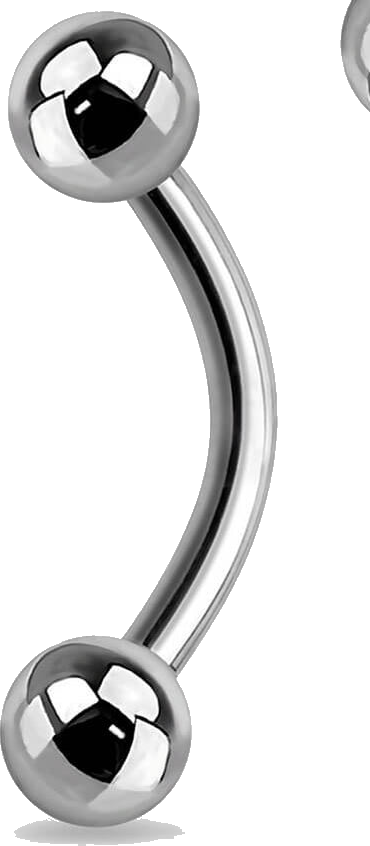
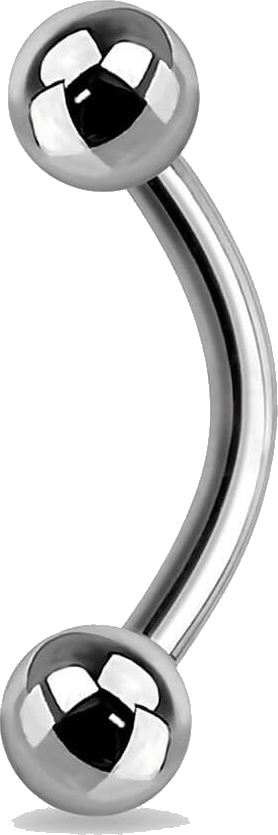
tune OUFER placement and sizing

diff --git a/src/FaceTracker.jsx b/src/FaceTracker.jsx
@@ -43,10 +43,10 @@ const jewelryAsset = (file) => `${import.meta.env.BASE_URL}jewelry/${file}`;
 // sprite about this same point, swapping which way the curve falls.
 const NOSTRIL_HOOP_ANCHOR = [0.78, 0.12];
 
-// Sizes below are the pre-adjustment baseline scaled up by ~35% from the
-// original calibration, which rendered too small to see on the feed. The
-// multiplier is uniform across every entry, so the pieces keep their sizes
-// relative to one another; the resize grip still moves any of them from here.
+// Sizes below are the pre-adjustment baseline, re-calibrated against the live
+// feed after the previous uniform scale-up left every piece oversized. They are
+// no longer a uniform multiple of one another — each piece is sized to its own
+// artwork — and the resize grip still moves any of them from here.
 const OUFER_URLS = {
   septum: 'https://www.ouferbodyjewelry.com/products/tribal-fake-gauge-titanium-threadless-septum-ring?ref=tcjnbdeb',
   nose: 'https://www.ouferbodyjewelry.com/products/black-cz-push-pin-horseshoe-nose-ring?ref=tcjnbdeb',
@@ -56,22 +56,25 @@ const OUFER_URLS = {
 
 const JEWELRY = {
   leftNostril: [
-    { id: 'oufer', label: 'OUFER Nose Ring', src: jewelryAsset('oufer-nose.png'), widthRatio: 0.099, offset: [0.024, 0.055], anchor: NOSTRIL_HOOP_ANCHOR, affiliateUrl: OUFER_URLS.nose },
+    { id: 'oufer', label: 'OUFER Nose Ring', src: jewelryAsset('oufer-nose.png'), widthRatio: 0.045, offset: [0.012, 0.070], anchor: NOSTRIL_HOOP_ANCHOR, affiliateUrl: OUFER_URLS.nose },
   ],
   rightNostril: [
-    { id: 'oufer', label: 'OUFER Nose Ring', src: jewelryAsset('oufer-nose.png'), widthRatio: 0.099, offset: [-0.059, 0.066], anchor: NOSTRIL_HOOP_ANCHOR, mirror: true, affiliateUrl: OUFER_URLS.nose },
+    { id: 'oufer', label: 'OUFER Nose Ring', src: jewelryAsset('oufer-nose.png'), widthRatio: 0.045, offset: [-0.028, 0.078], anchor: NOSTRIL_HOOP_ANCHOR, mirror: true, affiliateUrl: OUFER_URLS.nose },
   ],
   septum: [
-    { id: 'oufer', label: 'OUFER Septum Ring', src: jewelryAsset('oufer-septum.png'), widthRatio: 0.123, affiliateUrl: OUFER_URLS.septum },
+    { id: 'oufer', label: 'OUFER Septum Ring', src: jewelryAsset('oufer-septum.png'), widthRatio: 0.09, affiliateUrl: OUFER_URLS.septum },
   ],
+  // The two eyebrow entries share one barbell PNG, so exactly one of them
+  // carries `mirror` — that flip is what makes the pair curve as mirror images
+  // rather than both leaning the same way.
   leftEyebrow: [
-    { id: 'oufer', label: 'OUFER Curved Barbell', src: jewelryAsset('oufer-eyebrow.png'), widthRatio: 0.159, offset: [-0.071, -0.055], affiliateUrl: OUFER_URLS.eyebrow },
+    { id: 'oufer', label: 'OUFER Curved Barbell', src: jewelryAsset('oufer-eyebrow.png'), widthRatio: 0.06, offset: [-0.030, -0.012], mirror: true, affiliateUrl: OUFER_URLS.eyebrow },
   ],
   rightEyebrow: [
-    { id: 'oufer', label: 'OUFER Curved Barbell', src: jewelryAsset('oufer-eyebrow.png'), widthRatio: 0.159, offset: [0.071, -0.055], affiliateUrl: OUFER_URLS.eyebrow },
+    { id: 'oufer', label: 'OUFER Curved Barbell', src: jewelryAsset('oufer-eyebrow.png'), widthRatio: 0.06, offset: [0.030, -0.012], affiliateUrl: OUFER_URLS.eyebrow },
   ],
   lowerLip: [
-    { id: 'oufer', label: 'OUFER Lip Stud', src: jewelryAsset('oufer-lip.png'), widthRatio: 0.061, affiliateUrl: OUFER_URLS.lip },
+    { id: 'oufer', label: 'OUFER Lip Stud', src: jewelryAsset('oufer-lip.png'), widthRatio: 0.035, affiliateUrl: OUFER_URLS.lip },
   ],
 };
 
@@ -308,13 +311,18 @@ const nearestPiece = (pieces, point) => {
 // they don't bury the jewelry; the hit radius is much larger so they stay
 // thumb-sized on a phone.
 const HANDLE_GAP = 12;
-const HANDLE_RADIUS = 8;
+// Wide enough to carry a legible glyph: the icons are what tell the two grips
+// apart now, and below about 10px the arrowheads collapse into a smudge.
+const HANDLE_RADIUS = 10;
 const HANDLE_HIT_RADIUS = 22;
 
-// Mirrors --amber / --bar in App.css; canvas can't read CSS custom properties.
-const HANDLE_AMBER = '#ffcc00';
-const HANDLE_DARK = '#101010';
-const HANDLE_RIM = 'rgba(0, 0, 0, 0.55)';
+// Mirrors --paper / --ink in index.css; canvas can't read CSS custom
+// properties. The cream disc keeps the grips on the boutique palette and stays
+// readable over any complexion in the feed, with an ink rim and a soft shadow
+// doing the separating where the frame behind them is light.
+const HANDLE_CREAM = '#f1f0ea';
+const HANDLE_INK = '#2d232e';
+const HANDLE_SHADOW = 'rgba(45, 35, 46, 0.45)';
 
 // Resize sits down-right of the piece and rotate up-right, both carried around
 // by the piece's own rotation so the gizmo reads as attached to it.
@@ -335,15 +343,67 @@ const pieceHandles = (piece, dpr) => {
   });
 };
 
+// Two short strokes off the tip, opening backwards along `heading`.
+const strokeArrowhead = (ctx, x, y, heading, size) => {
+  const spread = 2.5;
+  ctx.beginPath();
+  ctx.moveTo(x + size * Math.cos(heading + spread), y + size * Math.sin(heading + spread));
+  ctx.lineTo(x, y);
+  ctx.lineTo(x + size * Math.cos(heading - spread), y + size * Math.sin(heading - spread));
+  ctx.stroke();
+};
+
+// A three-quarter arc with one arrowhead: the smallest shape that still reads
+// as "turn this" rather than as a decorative ring.
+const drawRotateGlyph = (ctx, x, y, size) => {
+  const radius = size * 0.58;
+  const tail = Math.PI * 0.85;
+  const tip = -Math.PI * 0.25;
+
+  ctx.beginPath();
+  ctx.arc(x, y, radius, tail, tip, true);
+  ctx.stroke();
+
+  // Sweeping with the angle decreasing puts the tangent a quarter turn behind.
+  strokeArrowhead(
+    ctx,
+    x + radius * Math.cos(tip),
+    y + radius * Math.sin(tip),
+    tip - Math.PI / 2,
+    size * 0.44,
+  );
+};
+
+// Diagonal double-arrow, laid on the same down-right axis the resize grip sits
+// on, so the icon points the way the drag goes.
+const drawResizeGlyph = (ctx, x, y, size) => {
+  const reach = size * 0.66;
+  const dx = reach * Math.SQRT1_2;
+  const dy = reach * Math.SQRT1_2;
+
+  ctx.beginPath();
+  ctx.moveTo(x - dx, y - dy);
+  ctx.lineTo(x + dx, y + dy);
+  ctx.stroke();
+
+  strokeArrowhead(ctx, x + dx, y + dy, Math.PI / 4, size * 0.44);
+  strokeArrowhead(ctx, x - dx, y - dy, Math.PI / 4 - Math.PI, size * 0.44);
+};
+
 const drawHandles = (ctx, piece, handles, dpr) => {
   const orbit = piece.extent + HANDLE_GAP * dpr;
+  const radius = HANDLE_RADIUS * dpr;
 
   ctx.save();
+  ctx.lineCap = 'round';
+  ctx.lineJoin = 'round';
+  ctx.shadowColor = HANDLE_SHADOW;
+  ctx.shadowBlur = 4 * dpr;
 
   // Faint ring frames the selection and shows what the grips are attached to,
   // without competing with the jewelry it surrounds.
-  ctx.strokeStyle = HANDLE_AMBER;
-  ctx.globalAlpha = 0.35;
+  ctx.strokeStyle = HANDLE_CREAM;
+  ctx.globalAlpha = 0.45;
   ctx.lineWidth = Math.max(dpr, 1);
   ctx.beginPath();
   ctx.arc(piece.x, piece.y, orbit, 0, Math.PI * 2);
@@ -351,16 +411,27 @@ const drawHandles = (ctx, piece, handles, dpr) => {
   ctx.globalAlpha = 1;
 
   handles.forEach(({ kind, x, y }) => {
-    // Filled vs hollow is what tells the two apart at grip size — an icon would
-    // be illegible in 8px.
-    const filled = kind === 'resize';
     ctx.beginPath();
-    ctx.arc(x, y, HANDLE_RADIUS * dpr, 0, Math.PI * 2);
-    ctx.fillStyle = filled ? HANDLE_AMBER : HANDLE_DARK;
+    ctx.arc(x, y, radius, 0, Math.PI * 2);
+    ctx.fillStyle = HANDLE_CREAM;
     ctx.fill();
-    ctx.strokeStyle = filled ? HANDLE_RIM : HANDLE_AMBER;
-    ctx.lineWidth = Math.max(1.5 * dpr, 1);
+    ctx.strokeStyle = HANDLE_INK;
+    ctx.lineWidth = Math.max(1.25 * dpr, 1);
     ctx.stroke();
+
+    // The glyph is the only thing separating the two grips, so it gets drawn
+    // flat against the disc — no shadow smearing its thin strokes.
+    ctx.save();
+    ctx.shadowColor = 'transparent';
+    ctx.shadowBlur = 0;
+    ctx.strokeStyle = HANDLE_INK;
+    ctx.lineWidth = Math.max(1.4 * dpr, 1);
+    if (kind === 'rotate') {
+      drawRotateGlyph(ctx, x, y, radius);
+    } else {
+      drawResizeGlyph(ctx, x, y, radius);
+    }
+    ctx.restore();
   });
 
   ctx.restore();

diff --git a/public/_preview-handles.html b/public/_preview-handles.html
@@ -1,0 +1,108 @@
+<!doctype html><meta charset="utf-8"><title>Handle hints</title>
+<style>
+body{margin:0;background:#f1f0ea;font:14px/1.4 Manrope,system-ui;color:#2d232e;padding:24px}
+h2{font-family:Georgia,serif;font-weight:500;margin:0 0 14px}
+.row{display:flex;gap:26px;align-items:center;flex-wrap:wrap}
+figure{margin:0;text-align:center}
+figcaption{font-size:10px;letter-spacing:.14em;text-transform:uppercase;color:#413a41;margin-top:8px}
+canvas{border-radius:10px}
+</style>
+<h2>Adjust handles — icon hints</h2>
+<div class="row">
+  <figure><canvas id="a" width="440" height="260"></canvas><figcaption>Actual size, over feed</figcaption></figure>
+  <figure><canvas id="b" width="300" height="180"></canvas><figcaption>Glyphs magnified 4x</figcaption></figure>
+</div>
+<script>
+const HANDLE_RADIUS = 10;
+const HANDLE_CREAM = '#f1f0ea';
+const HANDLE_INK = '#2d232e';
+const HANDLE_SHADOW = 'rgba(45, 35, 46, 0.45)';
+// Two short strokes off the tip, opening backwards along `heading`.
+const strokeArrowhead = (ctx, x, y, heading, size) => {
+  const spread = 2.5;
+  ctx.beginPath();
+  ctx.moveTo(x + size * Math.cos(heading + spread), y + size * Math.sin(heading + spread));
+  ctx.lineTo(x, y);
+  ctx.lineTo(x + size * Math.cos(heading - spread), y + size * Math.sin(heading - spread));
+  ctx.stroke();
+};
+
+// A three-quarter arc with one arrowhead: the smallest shape that still reads
+// as "turn this" rather than as a decorative ring.
+const drawRotateGlyph = (ctx, x, y, size) => {
+  const radius = size * 0.58;
+  const tail = Math.PI * 0.85;
+  const tip = -Math.PI * 0.25;
+
+  ctx.beginPath();
+  ctx.arc(x, y, radius, tail, tip, true);
+  ctx.stroke();
+
+  // Sweeping with the angle decreasing puts the tangent a quarter turn behind.
+  strokeArrowhead(
+    ctx,
+    x + radius * Math.cos(tip),
+    y + radius * Math.sin(tip),
+    tip - Math.PI / 2,
+    size * 0.44,
+  );
+};
+
+// Diagonal double-arrow, laid on the same down-right axis the resize grip sits
+// on, so the icon points the way the drag goes.
+const drawResizeGlyph = (ctx, x, y, size) => {
+  const reach = size * 0.66;
+  const dx = reach * Math.SQRT1_2;
+  const dy = reach * Math.SQRT1_2;
+
+  ctx.beginPath();
+  ctx.moveTo(x - dx, y - dy);
+  ctx.lineTo(x + dx, y + dy);
+  ctx.stroke();
+
+  strokeArrowhead(ctx, x + dx, y + dy, Math.PI / 4, size * 0.44);
+  strokeArrowhead(ctx, x - dx, y - dy, Math.PI / 4 - Math.PI, size * 0.44);
+};
+const drawHandles = (ctx, piece, handles, dpr) => {
+  const orbit = piece.extent + 12 * dpr;
+  const radius = HANDLE_RADIUS * dpr;
+  ctx.save();
+  ctx.lineCap='round'; ctx.lineJoin='round';
+  ctx.shadowColor = HANDLE_SHADOW; ctx.shadowBlur = 4*dpr;
+  ctx.strokeStyle = HANDLE_CREAM; ctx.globalAlpha=0.45; ctx.lineWidth=Math.max(dpr,1);
+  ctx.beginPath(); ctx.arc(piece.x,piece.y,orbit,0,Math.PI*2); ctx.stroke(); ctx.globalAlpha=1;
+  handles.forEach(({kind,x,y})=>{
+    ctx.beginPath(); ctx.arc(x,y,radius,0,Math.PI*2);
+    ctx.fillStyle=HANDLE_CREAM; ctx.fill();
+    ctx.strokeStyle=HANDLE_INK; ctx.lineWidth=Math.max(1.25*dpr,1); ctx.stroke();
+    ctx.save(); ctx.shadowColor='transparent'; ctx.shadowBlur=0;
+    ctx.strokeStyle=HANDLE_INK; ctx.lineWidth=Math.max(1.4*dpr,1);
+    if(kind==='rotate') drawRotateGlyph(ctx,x,y,radius); else drawResizeGlyph(ctx,x,y,radius);
+    ctx.restore();
+  });
+  ctx.restore();
+};
+// Actual size, on a skin-ish ground standing in for the feed.
+const a = document.getElementById('a').getContext('2d');
+const g = a.createLinearGradient(0,0,440,260);
+g.addColorStop(0,'#c99a7d'); g.addColorStop(.55,'#8d6552'); g.addColorStop(1,'#3a2b28');
+a.fillStyle=g; a.fillRect(0,0,440,260);
+[[130,130,22],[310,130,40]].forEach(([x,y,extent])=>{
+  const piece={x,y,extent,rotation:0};
+  a.fillStyle='#d8d3cb'; a.beginPath(); a.arc(x,y,7,0,Math.PI*2); a.fill();
+  const orbit = extent + 12;
+  const handles=[{kind:'resize',angle:Math.PI/4},{kind:'rotate',angle:-Math.PI/4}]
+    .map(({kind,angle})=>({kind,x:x+orbit*Math.cos(angle),y:y+orbit*Math.sin(angle)}));
+  drawHandles(a,piece,handles,1);
+});
+// Magnified glyphs.
+const b = document.getElementById('b').getContext('2d');
+b.fillStyle='#e0ddcf'; b.fillRect(0,0,300,180);
+[['rotate',80],['resize',220]].forEach(([kind,cx])=>{
+  const R=40;
+  b.beginPath(); b.arc(cx,86,R,0,Math.PI*2);
+  b.fillStyle=HANDLE_CREAM; b.fill(); b.strokeStyle=HANDLE_INK; b.lineWidth=5; b.stroke();
+  b.lineCap='round'; b.lineJoin='round'; b.strokeStyle=HANDLE_INK; b.lineWidth=5.6;
+  if(kind==='rotate') drawRotateGlyph(b,cx,86,R); else drawResizeGlyph(b,cx,86,R);
+});
+</script>

diff --git a/src/App.css b/src/App.css
@@ -334,6 +334,7 @@ body {
   flex-shrink: 0;
   background: none;
   border: none;
+  border-radius: 999px;
   color: var(--label);
   font-family: var(--cam-font);
   font-size: 10px;
@@ -341,12 +342,24 @@ body {
   letter-spacing: 0.14em;
   text-transform: uppercase;
   white-space: nowrap;
-  padding: 8px 10px 15px;
+  padding: 8px 12px 15px;
   cursor: pointer;
+  transition: background-color 0.16s ease, color 0.16s ease;
 }
 
-.tab.open {
+/* Hover only previews the pill, at a fraction of its weight, so it never gets
+   mistaken for the open position. */
+.tab:hover:not(.open) {
+  background: var(--line-soft);
   color: var(--label-on);
+}
+
+/* The open position takes the filled pill outright. Color and weight alone left
+   it guessable at 10px uppercase, and the tray underneath belongs to exactly
+   one tab — that ownership is worth stating loudly. */
+.tab.open {
+  background: var(--accent);
+  color: var(--paper);
   font-weight: 600;
 }
 
@@ -359,6 +372,11 @@ body {
   height: 4px;
   border-radius: 50%;
   background: var(--accent);
+}
+
+/* Inside the filled pill the accent dot would vanish into its own background. */
+.tab.open .worn-dot {
+  background: var(--paper);
 }
 
 .tray {
